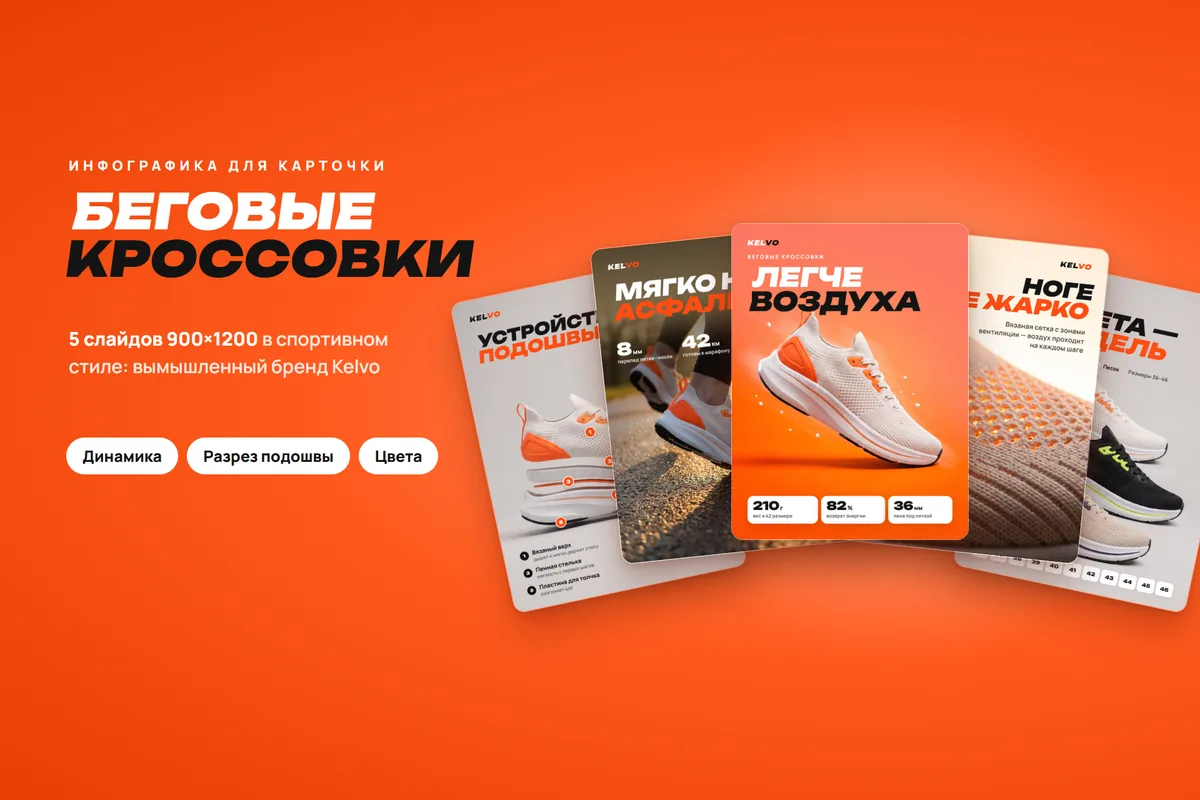
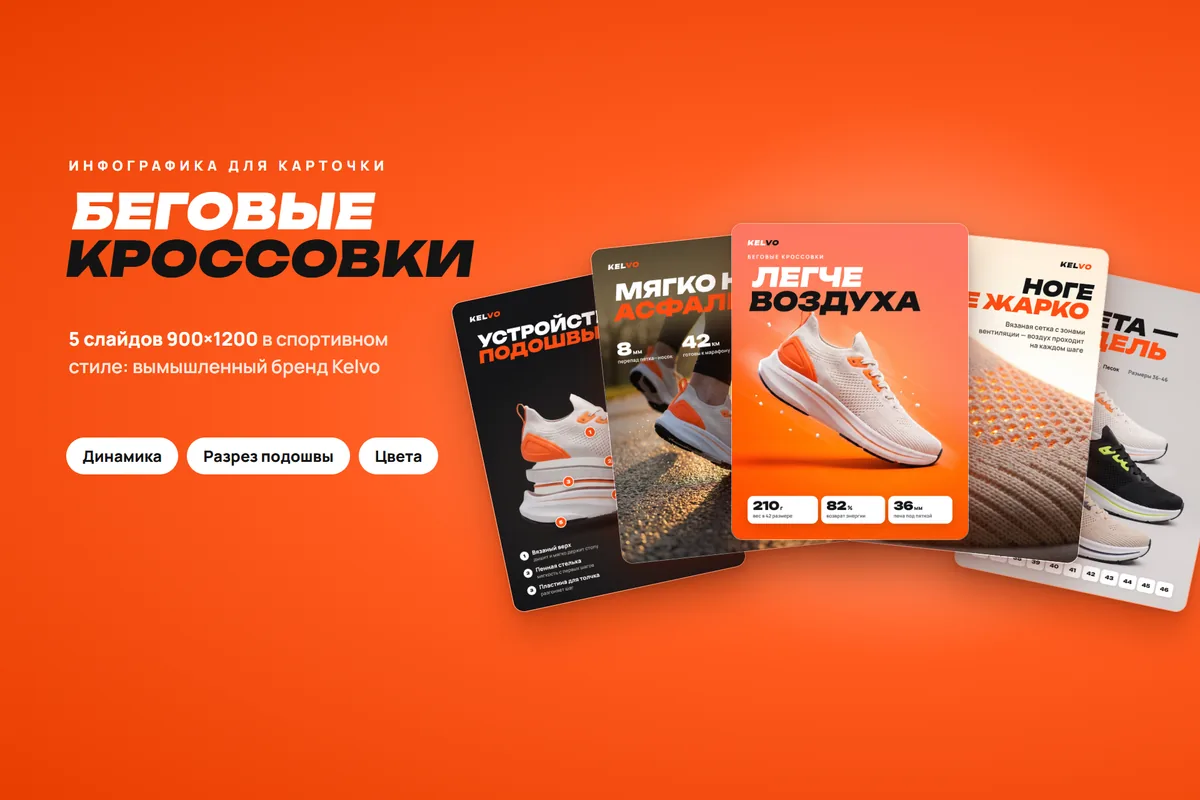
Кроссовки: слайд «Устройство подошвы» на тёмном фоне, чтобы обувь не сливалась с фоном

Changed region(s): [[0.37, 0.3438, 0.6167, 0.7812]]

diff --git a/index.html b/index.html
@@ -357,7 +357,7 @@
 </div>
 
 <script>
-const WORKS = [{"id": "01-9_astro", "cat": "market", "title": "Ночник-проектор «Космонавт»", "text": "Работа для реального продавца: главный слайд с крупными цифрами и иконками характеристик и слайд «Превратит комнату в космос», где сразу видно, как ночник проецирует звёздное небо. Заказчик одобрил варианты с первого раза.", "tags": ["реальный заказ", "космический стиль"], "brand": "Заказ клиента", "style": "Космос, неон", "category": "Товары для дома", "slides": 2, "cover": "assets/works/01-9_astro/cover.webp?v=aa2e87ae", "media": [{"type": "img", "src": "assets/works/01-9_astro/m1_b.webp?v=aa2e87ae", "w": 900, "h": 1200}, {"type": "img", "src": "assets/works/01-9_astro/m1_s2.webp?v=85d9c08f", "w": 900, "h": 1200}]}, {"id": "02-7_sneakercards", "cat": "market", "title": "Беговые кроссовки", "text": "Спортивный стиль с движением: «легче воздуха» на главном, кроссовок на асфальте, устройство подошвы с выносками, дышащая сетка крупным планом и расцветки с размерной сеткой.", "tags": ["обувь", "5 слайдов", "динамика"], "brand": "Kelvo", "style": "Спортивный, динамичный", "category": "Обувь", "slides": 5, "cover": "assets/works/02-7_sneakercards/cover.webp?v=54520ead", "media": [{"type": "img", "src": "assets/works/02-7_sneakercards/1_slide_main.webp?v=0537d7b8", "w": 900, "h": 1200}, {"type": "img", "src": "assets/works/02-7_sneakercards/2_slide_sole.webp?v=e7094adc", "w": 900, "h": 1200}, {"type": "img", "src": "assets/works/02-7_sneakercards/3_slide_mesh.webp?v=4b53824b", "w": 900, "h": 1200}, {"type": "img", "src": "assets/works/02-7_sneakercards/4_slide_run.webp?v=8ac7eb15", "w": 900, "h": 1200}, {"type": "img", "src": "assets/works/02-7_sneakercards/5_slide_colors.webp?v=7ffc3433", "w": 900, "h": 1200}]}, {"id": "03-8_coffeecards", "cat": "market", "title": "Эспрессо-кофемашина", "text": "Тёмный премиальный стиль: «эспрессо как в кофейне», давление 15 бар, готовность за 30 секунд, капучинатор и комплектация с размерами.", "tags": ["техника", "5 слайдов", "премиум"], "brand": "Каффора", "style": "Тёмный премиум", "category": "Бытовая техника", "slides": 5, "cover": "assets/works/03-8_coffeecards/cover.webp?v=f06993ab", "media": [{"type": "img", "src": "assets/works/03-8_coffeecards/1_slide_main.webp?v=a8567295", "w": 900, "h": 1200}, {"type": "img", "src": "assets/works/03-8_coffeecards/2_slide_pressure.webp?v=744bf1ef", "w": 900, "h": 1200}, {"type": "img", "src": "assets/works/03-8_coffeecards/3_slide_milk.webp?v=e471ee0d", "w": 900, "h": 1200}, {"type": "img", "src": "assets/works/03-8_coffeecards/4_slide_morning.webp?v=6408a548", "w": 900, "h": 1200}, {"type": "img", "src": "assets/works/03-8_coffeecards/5_slide_size_kit.webp?v=2233c647", "w": 900, "h": 1200}]}, {"id": "04-9_perfumecards", "cat": "market", "title": "Парфюмерная вода «Ночной вельвет»", "text": "Вечерний люкс-стиль: пирамида аромата, стойкость 10 часов, флакон крупным планом и подарочная коробка с выбором объёма.", "tags": ["парфюм", "5 слайдов", "люкс"], "brand": "Вельвет", "style": "Вечерний люкс", "category": "Парфюмерия", "slides": 5, "cover": "assets/works/04-9_perfumecards/cover.webp?v=a73c8574", "media": [{"type": "img", "src": "assets/works/04-9_perfumecards/1_slide_main.webp?v=cc041b53", "w": 900, "h": 1200}, {"type": "img", "src": "assets/works/04-9_perfumecards/2_slide_notes.webp?v=025b9367", "w": 900, "h": 1200}, {"type": "img", "src": "assets/works/04-9_perfumecards/3_slide_bottle.webp?v=3bb32794", "w": 900, "h": 1200}, {"type": "img", "src": "assets/works/04-9_perfumecards/4_slide_evening.webp?v=b24b1e69", "w": 900, "h": 1200}, {"type": "img", "src": "assets/works/04-9_perfumecards/5_slide_gift.webp?v=6c0b2d7a", "w": 900, "h": 1200}]}, {"id": "05-10_robotvacuumcards", "cat": "market", "title": "Робот-пылесос с влажной уборкой", "text": "Светлый технологичный стиль: мощность всасывания, щётка против шерсти, карта уборки с запретными зонами и станция самоочистки.", "tags": ["техника", "5 слайдов", "схемы"], "brand": "Lumo", "style": "Светлый, технологичный", "category": "Бытовая техника", "slides": 5, "cover": "assets/works/05-10_robotvacuumcards/cover.webp?v=19691da6", "media": [{"type": "img", "src": "assets/works/05-10_robotvacuumcards/1_slide_main.webp?v=afd5341f", "w": 900, "h": 1200}, {"type": "img", "src": "assets/works/05-10_robotvacuumcards/2_slide_power.webp?v=4c46f279", "w": 900, "h": 1200}, {"type": "img", "src": "assets/works/05-10_robotvacuumcards/3_slide_map.webp?v=b777c0d4", "w": 900, "h": 1200}, {"type": "img", "src": "assets/works/05-10_robotvacuumcards/4_slide_pets.webp?v=8430c639", "w": 900, "h": 1200}, {"type": "img", "src": "assets/works/05-10_robotvacuumcards/5_slide_station.webp?v=b6e24471", "w": 900, "h": 1200}]}, {"id": "06-2_serumcards", "cat": "market", "title": "Сыворотка для лица", "text": "Светлый премиальный стиль: главный слайд с выгодами, активные компоненты с процентами, как применять, результат через 4 недели и состав.", "tags": ["косметика", "5 слайдов", "минимализм"], "brand": "averlin", "style": "Светлый премиум", "category": "Косметика", "slides": 5, "cover": "assets/works/06-2_serumcards/cover.webp?v=ad9c6751", "media": [{"type": "img", "src": "assets/works/06-2_serumcards/1_slide_main.webp?v=40dc3b31", "w": 900, "h": 1200}, {"type": "img", "src": "assets/works/06-2_serumcards/2_slide_actives.webp?v=60180c51", "w": 900, "h": 1200}, {"type": "img", "src": "assets/works/06-2_serumcards/3_slide_howto.webp?v=e24f0b29", "w": 900, "h": 1200}, {"type": "img", "src": "assets/works/06-2_serumcards/4_slide_result.webp?v=703015f0", "w": 900, "h": 1200}, {"type": "img", "src": "assets/works/06-2_serumcards/5_slide_volume.webp?v=a245c046", "w": 900, "h": 1200}]}, {"id": "07-11_smartwatchcards", "cat": "market", "title": "Спортивные смарт-часы", "text": "Кинематографичный стиль с оранжевым акцентом: «выше облаков» на главном, титан и сапфир крупным планом, защита 5 ATM в брызгах воды, спорт и GPS на руке и автономность 14 дней.", "tags": ["электроника", "5 слайдов", "синематика"], "brand": "Vektor", "style": "Кино-стиль, тёмный", "category": "Электроника", "slides": 5, "cover": "assets/works/07-11_smartwatchcards/cover.webp?v=1f78ca3b", "media": [{"type": "img", "src": "assets/works/07-11_smartwatchcards/1_slide_main.webp?v=043421da", "w": 900, "h": 1200}, {"type": "img", "src": "assets/works/07-11_smartwatchcards/2_slide_materials.webp?v=31aa2c18", "w": 900, "h": 1200}, {"type": "img", "src": "assets/works/07-11_smartwatchcards/3_slide_sport.webp?v=704dc206", "w": 900, "h": 1200}, {"type": "img", "src": "assets/works/07-11_smartwatchcards/4_slide_water.webp?v=4a716d22", "w": 900, "h": 1200}, {"type": "img", "src": "assets/works/07-11_smartwatchcards/5_slide_battery.webp?v=0a497e4f", "w": 900, "h": 1200}]}, {"id": "08-4_candlecards", "cat": "market", "title": "Ароматическая свеча", "text": "Тёплый эко-стиль: горящая свеча, пирамида аромата, натуральный состав, 40 часов горения и подарочная упаковка.", "tags": ["дом", "5 слайдов", "эко-стиль"], "brand": "Ольха", "style": "Тёплый эко", "category": "Товары для дома", "slides": 5, "cover": "assets/works/08-4_candlecards/cover.webp?v=75c0c9de", "media": [{"type": "img", "src": "assets/works/08-4_candlecards/1_slide_main.webp?v=28c19754", "w": 900, "h": 1200}, {"type": "img", "src": "assets/works/08-4_candlecards/2_slide_aroma.webp?v=9f0e7bdd", "w": 900, "h": 1200}, {"type": "img", "src": "assets/works/08-4_candlecards/3_slide_natural.webp?v=5a8feeaa", "w": 900, "h": 1200}, {"type": "img", "src": "assets/works/08-4_candlecards/4_slide_burn_time.webp?v=87e8aeb8", "w": 900, "h": 1200}, {"type": "img", "src": "assets/works/08-4_candlecards/5_slide_size_gift.webp?v=600cd294", "w": 900, "h": 1200}]}, {"id": "09-12_rctruckcards", "cat": "market", "title": "Машинка на пульте управления", "text": "Детский экшен-стиль: машинка «летает по кочкам», скорость 30 км/ч, пульт, с которым разберётся первоклассник, езда по лужам и полный комплект в коробке.", "tags": ["детям", "5 слайдов", "экшен"], "brand": "Рыжик-Рэлли", "style": "Детский экшен", "category": "Детские товары", "slides": 5, "cover": "assets/works/09-12_rctruckcards/cover.webp?v=ef3171a1", "media": [{"type": "img", "src": "assets/works/09-12_rctruckcards/1_slide_main.webp?v=91beb355", "w": 900, "h": 1200}, {"type": "img", "src": "assets/works/09-12_rctruckcards/2_slide_speed.webp?v=0f706af2", "w": 900, "h": 1200}, {"type": "img", "src": "assets/works/09-12_rctruckcards/3_slide_puddle.webp?v=6c567532", "w": 900, "h": 1200}, {"type": "img", "src": "assets/works/09-12_rctruckcards/4_slide_remote.webp?v=5960f534", "w": 900, "h": 1200}, {"type": "img", "src": "assets/works/09-12_rctruckcards/5_slide_kit.webp?v=39d0bb64", "w": 900, "h": 1200}]}, {"id": "10-1_muginfographic", "cat": "market", "title": "Термокружка «Тропа 450»", "text": "Главный слайд с выгодами, схема слоёв стенки «держит тепло 12 часов», размеры с выносками и комплектация с цветами.", "tags": ["посуда", "4 слайда", "схемы"], "brand": "Полюс", "style": "Спокойный, схемы", "category": "Посуда", "slides": 4, "cover": "assets/works/10-1_muginfographic/cover.webp?v=8fad3fe0", "media": [{"type": "img", "src": "assets/works/10-1_muginfographic/1_slide_main.webp?v=306bb4d0", "w": 900, "h": 1200}, {"type": "img", "src": "assets/works/10-1_muginfographic/2_slide_heat.webp?v=0f13ffad", "w": 900, "h": 1200}, {"type": "img", "src": "assets/works/10-1_muginfographic/3_slide_size.webp?v=a0b17d25", "w": 900, "h": 1200}, {"type": "img", "src": "assets/works/10-1_muginfographic/4_slide_colors.webp?v=ef48d8a1", "w": 900, "h": 1200}]}];
+const WORKS = [{"id": "01-9_astro", "cat": "market", "title": "Ночник-проектор «Космонавт»", "text": "Работа для реального продавца: главный слайд с крупными цифрами и иконками характеристик и слайд «Превратит комнату в космос», где сразу видно, как ночник проецирует звёздное небо. Заказчик одобрил варианты с первого раза.", "tags": ["реальный заказ", "космический стиль"], "brand": "Заказ клиента", "style": "Космос, неон", "category": "Товары для дома", "slides": 2, "cover": "assets/works/01-9_astro/cover.webp?v=aa2e87ae", "media": [{"type": "img", "src": "assets/works/01-9_astro/m1_b.webp?v=aa2e87ae", "w": 900, "h": 1200}, {"type": "img", "src": "assets/works/01-9_astro/m1_s2.webp?v=85d9c08f", "w": 900, "h": 1200}]}, {"id": "02-7_sneakercards", "cat": "market", "title": "Беговые кроссовки", "text": "Спортивный стиль с движением: «легче воздуха» на главном, кроссовок на асфальте, устройство подошвы с выносками, дышащая сетка крупным планом и расцветки с размерной сеткой.", "tags": ["обувь", "5 слайдов", "динамика"], "brand": "Kelvo", "style": "Спортивный, динамичный", "category": "Обувь", "slides": 5, "cover": "assets/works/02-7_sneakercards/cover.webp?v=963ce3a8", "media": [{"type": "img", "src": "assets/works/02-7_sneakercards/1_slide_main.webp?v=0537d7b8", "w": 900, "h": 1200}, {"type": "img", "src": "assets/works/02-7_sneakercards/2_slide_sole.webp?v=1e64b2c9", "w": 900, "h": 1200}, {"type": "img", "src": "assets/works/02-7_sneakercards/3_slide_mesh.webp?v=4b53824b", "w": 900, "h": 1200}, {"type": "img", "src": "assets/works/02-7_sneakercards/4_slide_run.webp?v=8abf25b9", "w": 900, "h": 1200}, {"type": "img", "src": "assets/works/02-7_sneakercards/5_slide_colors.webp?v=7d625764", "w": 900, "h": 1200}]}, {"id": "03-8_coffeecards", "cat": "market", "title": "Эспрессо-кофемашина", "text": "Тёмный премиальный стиль: «эспрессо как в кофейне», давление 15 бар, готовность за 30 секунд, капучинатор и комплектация с размерами.", "tags": ["техника", "5 слайдов", "премиум"], "brand": "Каффора", "style": "Тёмный премиум", "category": "Бытовая техника", "slides": 5, "cover": "assets/works/03-8_coffeecards/cover.webp?v=f06993ab", "media": [{"type": "img", "src": "assets/works/03-8_coffeecards/1_slide_main.webp?v=a8567295", "w": 900, "h": 1200}, {"type": "img", "src": "assets/works/03-8_coffeecards/2_slide_pressure.webp?v=744bf1ef", "w": 900, "h": 1200}, {"type": "img", "src": "assets/works/03-8_coffeecards/3_slide_milk.webp?v=e471ee0d", "w": 900, "h": 1200}, {"type": "img", "src": "assets/works/03-8_coffeecards/4_slide_morning.webp?v=6408a548", "w": 900, "h": 1200}, {"type": "img", "src": "assets/works/03-8_coffeecards/5_slide_size_kit.webp?v=2233c647", "w": 900, "h": 1200}]}, {"id": "04-9_perfumecards", "cat": "market", "title": "Парфюмерная вода «Ночной вельвет»", "text": "Вечерний люкс-стиль: пирамида аромата, стойкость 10 часов, флакон крупным планом и подарочная коробка с выбором объёма.", "tags": ["парфюм", "5 слайдов", "люкс"], "brand": "Вельвет", "style": "Вечерний люкс", "category": "Парфюмерия", "slides": 5, "cover": "assets/works/04-9_perfumecards/cover.webp?v=a73c8574", "media": [{"type": "img", "src": "assets/works/04-9_perfumecards/1_slide_main.webp?v=cc041b53", "w": 900, "h": 1200}, {"type": "img", "src": "assets/works/04-9_perfumecards/2_slide_notes.webp?v=025b9367", "w": 900, "h": 1200}, {"type": "img", "src": "assets/works/04-9_perfumecards/3_slide_bottle.webp?v=3bb32794", "w": 900, "h": 1200}, {"type": "img", "src": "assets/works/04-9_perfumecards/4_slide_evening.webp?v=b24b1e69", "w": 900, "h": 1200}, {"type": "img", "src": "assets/works/04-9_perfumecards/5_slide_gift.webp?v=6c0b2d7a", "w": 900, "h": 1200}]}, {"id": "05-10_robotvacuumcards", "cat": "market", "title": "Робот-пылесос с влажной уборкой", "text": "Светлый технологичный стиль: мощность всасывания, щётка против шерсти, карта уборки с запретными зонами и станция самоочистки.", "tags": ["техника", "5 слайдов", "схемы"], "brand": "Lumo", "style": "Светлый, технологичный", "category": "Бытовая техника", "slides": 5, "cover": "assets/works/05-10_robotvacuumcards/cover.webp?v=19691da6", "media": [{"type": "img", "src": "assets/works/05-10_robotvacuumcards/1_slide_main.webp?v=afd5341f", "w": 900, "h": 1200}, {"type": "img", "src": "assets/works/05-10_robotvacuumcards/2_slide_power.webp?v=4c46f279", "w": 900, "h": 1200}, {"type": "img", "src": "assets/works/05-10_robotvacuumcards/3_slide_map.webp?v=b777c0d4", "w": 900, "h": 1200}, {"type": "img", "src": "assets/works/05-10_robotvacuumcards/4_slide_pets.webp?v=8430c639", "w": 900, "h": 1200}, {"type": "img", "src": "assets/works/05-10_robotvacuumcards/5_slide_station.webp?v=b6e24471", "w": 900, "h": 1200}]}, {"id": "06-2_serumcards", "cat": "market", "title": "Сыворотка для лица", "text": "Светлый премиальный стиль: главный слайд с выгодами, активные компоненты с процентами, как применять, результат через 4 недели и состав.", "tags": ["косметика", "5 слайдов", "минимализм"], "brand": "averlin", "style": "Светлый премиум", "category": "Косметика", "slides": 5, "cover": "assets/works/06-2_serumcards/cover.webp?v=ad9c6751", "media": [{"type": "img", "src": "assets/works/06-2_serumcards/1_slide_main.webp?v=40dc3b31", "w": 900, "h": 1200}, {"type": "img", "src": "assets/works/06-2_serumcards/2_slide_actives.webp?v=60180c51", "w": 900, "h": 1200}, {"type": "img", "src": "assets/works/06-2_serumcards/3_slide_howto.webp?v=e24f0b29", "w": 900, "h": 1200}, {"type": "img", "src": "assets/works/06-2_serumcards/4_slide_result.webp?v=703015f0", "w": 900, "h": 1200}, {"type": "img", "src": "assets/works/06-2_serumcards/5_slide_volume.webp?v=a245c046", "w": 900, "h": 1200}]}, {"id": "07-11_smartwatchcards", "cat": "market", "title": "Спортивные смарт-часы", "text": "Кинематографичный стиль с оранжевым акцентом: «выше облаков» на главном, титан и сапфир крупным планом, защита 5 ATM в брызгах воды, спорт и GPS на руке и автономность 14 дней.", "tags": ["электроника", "5 слайдов", "синематика"], "brand": "Vektor", "style": "Кино-стиль, тёмный", "category": "Электроника", "slides": 5, "cover": "assets/works/07-11_smartwatchcards/cover.webp?v=1f78ca3b", "media": [{"type": "img", "src": "assets/works/07-11_smartwatchcards/1_slide_main.webp?v=043421da", "w": 900, "h": 1200}, {"type": "img", "src": "assets/works/07-11_smartwatchcards/2_slide_materials.webp?v=31aa2c18", "w": 900, "h": 1200}, {"type": "img", "src": "assets/works/07-11_smartwatchcards/3_slide_sport.webp?v=704dc206", "w": 900, "h": 1200}, {"type": "img", "src": "assets/works/07-11_smartwatchcards/4_slide_water.webp?v=4a716d22", "w": 900, "h": 1200}, {"type": "img", "src": "assets/works/07-11_smartwatchcards/5_slide_battery.webp?v=0a497e4f", "w": 900, "h": 1200}]}, {"id": "08-4_candlecards", "cat": "market", "title": "Ароматическая свеча", "text": "Тёплый эко-стиль: горящая свеча, пирамида аромата, натуральный состав, 40 часов горения и подарочная упаковка.", "tags": ["дом", "5 слайдов", "эко-стиль"], "brand": "Ольха", "style": "Тёплый эко", "category": "Товары для дома", "slides": 5, "cover": "assets/works/08-4_candlecards/cover.webp?v=75c0c9de", "media": [{"type": "img", "src": "assets/works/08-4_candlecards/1_slide_main.webp?v=28c19754", "w": 900, "h": 1200}, {"type": "img", "src": "assets/works/08-4_candlecards/2_slide_aroma.webp?v=9f0e7bdd", "w": 900, "h": 1200}, {"type": "img", "src": "assets/works/08-4_candlecards/3_slide_natural.webp?v=5a8feeaa", "w": 900, "h": 1200}, {"type": "img", "src": "assets/works/08-4_candlecards/4_slide_burn_time.webp?v=87e8aeb8", "w": 900, "h": 1200}, {"type": "img", "src": "assets/works/08-4_candlecards/5_slide_size_gift.webp?v=600cd294", "w": 900, "h": 1200}]}, {"id": "09-12_rctruckcards", "cat": "market", "title": "Машинка на пульте управления", "text": "Детский экшен-стиль: машинка «летает по кочкам», скорость 30 км/ч, пульт, с которым разберётся первоклассник, езда по лужам и полный комплект в коробке.", "tags": ["детям", "5 слайдов", "экшен"], "brand": "Рыжик-Рэлли", "style": "Детский экшен", "category": "Детские товары", "slides": 5, "cover": "assets/works/09-12_rctruckcards/cover.webp?v=ef3171a1", "media": [{"type": "img", "src": "assets/works/09-12_rctruckcards/1_slide_main.webp?v=91beb355", "w": 900, "h": 1200}, {"type": "img", "src": "assets/works/09-12_rctruckcards/2_slide_speed.webp?v=0f706af2", "w": 900, "h": 1200}, {"type": "img", "src": "assets/works/09-12_rctruckcards/3_slide_puddle.webp?v=6c567532", "w": 900, "h": 1200}, {"type": "img", "src": "assets/works/09-12_rctruckcards/4_slide_remote.webp?v=5960f534", "w": 900, "h": 1200}, {"type": "img", "src": "assets/works/09-12_rctruckcards/5_slide_kit.webp?v=39d0bb64", "w": 900, "h": 1200}]}, {"id": "10-1_muginfographic", "cat": "market", "title": "Термокружка «Тропа 450»", "text": "Главный слайд с выгодами, схема слоёв стенки «держит тепло 12 часов», размеры с выносками и комплектация с цветами.", "tags": ["посуда", "4 слайда", "схемы"], "brand": "Полюс", "style": "Спокойный, схемы", "category": "Посуда", "slides": 4, "cover": "assets/works/10-1_muginfographic/cover.webp?v=8fad3fe0", "media": [{"type": "img", "src": "assets/works/10-1_muginfographic/1_slide_main.webp?v=306bb4d0", "w": 900, "h": 1200}, {"type": "img", "src": "assets/works/10-1_muginfographic/2_slide_heat.webp?v=0f13ffad", "w": 900, "h": 1200}, {"type": "img", "src": "assets/works/10-1_muginfographic/3_slide_size.webp?v=a0b17d25", "w": 900, "h": 1200}, {"type": "img", "src": "assets/works/10-1_muginfographic/4_slide_colors.webp?v=ef48d8a1", "w": 900, "h": 1200}]}];
 const PRICE = 200;
 const esc = s => String(s).replace(/[&<>"']/g, c => ({"&": "&amp;", "<": "&lt;", ">": "&gt;", '"': "&quot;", "'": "&#39;"}[c]));
 const plural = (n, a, b, c) => { const m10 = n % 10, m100 = n % 100; return m10 === 1 && m100 !== 11 ? a : (m10 >= 2 && m10 <= 4 && (m100 < 10 || m100 >= 20) ? b : c); };
